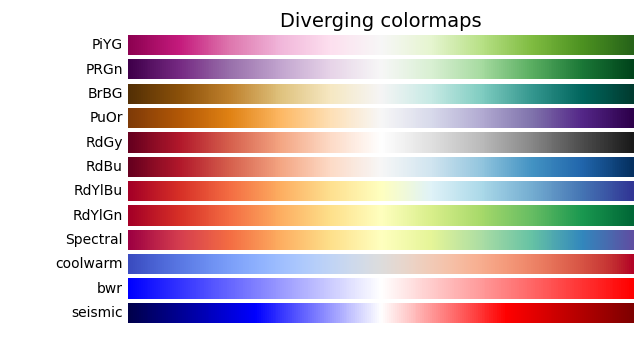
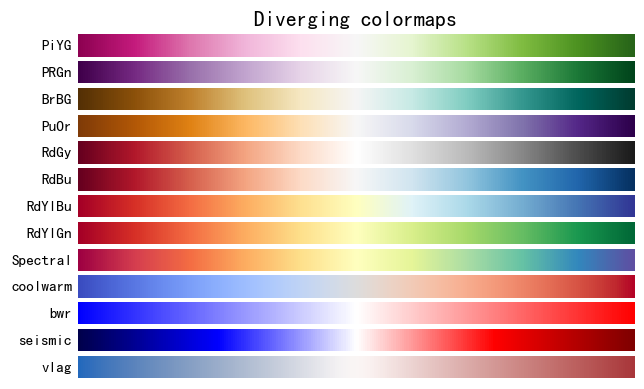
update

diff --git a/machine_learning/聚类/层次聚类.md b/machine_learning/聚类/层次聚类.md
@@ -1,0 +1,117 @@
+# 层次聚类
+
+一开始看到了seaborn的clustermap相关性矩阵。
+
+了解到，这个绘图首先对各个指标进行层次聚类，再绘制相关性矩阵图。
+
+内部层次聚类的流程：
+
+指标归一化→计算样本之间距离→找出距离最小的两类聚在一起迭代直到最后只剩下一个大类。
+
+## 基本用法
+
+```python
+from scipy.cluster import hierarchy
+from matplotlib import pyplot as plt
+x = [[i] for i in [2, 8, 0, 4, 1, 9, 9, 0]]
+# 层次聚类
+linkage = hierarchy.linkage(X, method='single')
+# 绘制层次聚类图像
+hierarchy.dendrogram(linkage)
+plt.show()
+```
+
+其中x是一个个数据点，这里的例子是一维数据
+
+linkage的结果详解：
+
+```python
+print(linkage)
+```
+
+```
+[[ 2.  7.  0.  2.]
+ [ 5.  6.  0.  2.]
+ [ 0.  4.  1.  2.]
+ [ 8. 10.  1.  4.]
+ [ 1.  9.  1.  3.]
+ [ 3. 11.  2.  5.]
+ [12. 13.  4.  8.]]
+```
+
+每一行每个数据分别表示：组索引1，组索引2，距离，组内元素数
+
+初始情况下，x有8个元素，对应组索引号0~7。此时每组只有一个元素。
+
+开始第一次聚类后发现第2组和第7组的距离为0，是当前最接近的组，将它们两归为一组。这组有2个元素，它们的**组索引号就为8**
+
+因此就得到了下面这行
+
+```
+[2, 7, 0, 2]  # 组索引号8
+```
+
+## sns.clustermap 获取linkage
+
+通过以下代码获取seaborn绘制的分层聚类相关性矩阵图的层次聚类结果
+
+```python
+import pandas as pd
+import numpy as np
+import seaborn as sns
+
+corr = df.corr()
+
+size = len(corr) * 0.5
+g = sns.clustermap(corr, center=0, cmap="vlag",
+                   # row_colors=network_colors, 
+                   # col_colors=network_colors,
+                   dendrogram_ratio=(.1, .2),
+                   cbar_pos=(.02, .32, .03, .2),
+                   linewidths=.75, figsize=(size, size+1), 
+                   annot=True, fmt='.2f')
+
+g.ax_row_dendrogram.remove()
+
+# 获取linkage，格式同基本用法里举的例子
+linkage = g.dendrogram_col.linkage
+```
+
+
+
+创建一个二叉树，方便随时查看各个分组有哪些元素
+
+```python
+class Node:
+    def __init__(self, idx, column=None):
+        self.idx = idx
+        self.left = None
+        self.right = None
+        self.column = column  # 只有叶子结点column不为None
+
+
+def preorder_traversal(node, result=[]):
+    if node is None:
+        return result
+    if node.column:
+        result.append(node.column)
+    preorder_traversal(node.left, result)
+    preorder_traversal(node.right, result)
+    return result
+
+
+# 创建树，nodes[-1] 就是树的根节点
+nodes = [Node(i, column) for i, column in enumerate(corr.columns)]
+for left_idx, right_idx, _, _ in g.dendrogram_col.linkage:
+    node = Node(len(nodes))
+    node.left = nodes[int(left_idx)]
+    node.right = nodes[int(right_idx)]
+    nodes.append(node)
+    
+ preorder_traversal(nodes[-1], result=[])
+```
+
+
+
+
+

diff --git a/数据结构与算法/二分查找模板.md b/数据结构与算法/二分查找模板.md
@@ -68,16 +68,87 @@ def bisect_left(a, x, lo=0, hi=None):
     return lo
 ```
 
-
-
-相同点：
-
-- 初始状态下lo和hi的定义：`lo, hi = 0, len(a)`
-- 循环条件 ：`while lo < hi`
-- mid的计算方式：`mid=(lo+hi) // 2`
-
 不同点：
 
 - 判断条件（结合left和right的定义去记忆）nums[mid] 在哪边。
   - `if x < a[mid]: hi = mid` right
   - `if a[mid] < x: lo = mid + 1` left
+
+
+
+# 二分法
+
+```python
+def binary_select_right(nums, x, left=0, right=None):
+    if right is None:
+        right = len(nums)
+
+    while left < right:
+        mid = (left + right) // 2
+        if x < nums[mid]: 
+            right = mid
+        else: 
+            left = mid+1
+    return left
+```
+
+## mid 的计算方式
+
+mid的计算方式：(left + right) // 2。当两数相邻时，算出的mid等于left
+
+例：left = 7，right=8。 mid = (7 + 8) // 2 = 15 // 2 = 7
+
+因此在二分时，如果x > nums[mid]，更新的left = mid + 1。
+
+否则可能出现无限循环的情况。
+
+## 二分的核心
+
+上面这个函数的含义：
+
+nums是一个递增数组，要将x插入nums，且nums保持递增，若nums中包含与x相同的元素，则**将x插入到其相同元素的最右边**，返回x插入位置的索引。
+
+其中的核心语句是：
+
+```
+if x < nums[mid]:
+```
+
+如果将上面这句改成
+
+```
+if x <= nums[mid]:
+```
+
+函数含义就变为：若nums中包含与x相同的元素，则将x插入到其相同元素的**最左边**
+
+
+
+小于与小于等于的差异
+
+```
+x = 2
+
+  1   2   2   2   3
+  ^       ^       ^
+left     mid    right
+```
+
+（1）如果按照 x < nums[mid]，条件不满足，更新 left = mid + 1
+
+> 飞机分头等舱和经济舱，优先级分别为1和2。理所应当，优先级越小的越早登机。拿着头等舱机票的乘客在排队时可以一下子走到经济舱乘客的前面。
+>
+> 这时候张三购买了头等舱机票来排队了，他可以排在经济舱乘客的前面，但是按照排队先来后到的原则，他得排在头等舱乘客的最后面
+>
+> 虽然都是头等舱，但是还是**不一样**的（小于号，没有等于号）
+
+（2）如果按照 x <= nums[mid]，条件满足，更新 right = mid
+
+> 但是张三不服气，争辩到，我们都**一样**是头等舱，排哪里都无所谓啦。因此我要排到最前面。（小于等于）
+
+
+
+
+
+
+

diff --git a/python绘图库/matplotlib/color速查.md b/python绘图库/matplotlib/color速查.md
@@ -27,12 +27,10 @@
 https://matplotlib.org/gallery/color/colormap_reference.html#sphx-glr-gallery-color-colormap-reference-py
 
 ```python
-import numpy as np
-import matplotlib.pyplot as plt
-
 
 cmaps = [('Perceptually Uniform Sequential', [
-            'viridis', 'plasma', 'inferno', 'magma', 'cividis']),
+            'viridis', 'plasma', 'inferno', 'magma', 'cividis', 'crest',
+            'flare', 'icefire', 'mako', 'rocket']),
          ('Sequential', [
             'Greys', 'Purples', 'Blues', 'Greens', 'Oranges', 'Reds',
             'YlOrBr', 'YlOrRd', 'OrRd', 'PuRd', 'RdPu', 'BuPu',
@@ -42,8 +40,8 @@ cmaps = [('Perceptually Uniform Sequential', [
             'spring', 'summer', 'autumn', 'winter', 'cool', 'Wistia',
             'hot', 'afmhot', 'gist_heat', 'copper']),
          ('Diverging', [
-            'PiYG', 'PRGn', 'BrBG', 'PuOr', 'RdGy', 'RdBu',
-            'RdYlBu', 'RdYlGn', 'Spectral', 'coolwarm', 'bwr', 'seismic']),
+            'PiYG', 'PRGn', 'BrBG', 'PuOr', 'RdGy', 'RdBu', 'RdYlBu', 
+            'RdYlGn', 'Spectral', 'coolwarm', 'bwr', 'seismic', 'vlag']),
          ('Cyclic', ['twilight', 'twilight_shifted', 'hsv']),
          ('Qualitative', [
             'Pastel1', 'Pastel2', 'Paired', 'Accent',
@@ -55,7 +53,6 @@ cmaps = [('Perceptually Uniform Sequential', [
             'gist_rainbow', 'rainbow', 'jet', 'turbo', 'nipy_spectral',
             'gist_ncar'])]
 
-
 gradient = np.linspace(0, 1, 256)
 gradient = np.vstack((gradient, gradient))
 
@@ -64,7 +61,7 @@ def plot_color_gradients(cmap_category, cmap_list):
     # Create figure and adjust figure height to number of colormaps
     nrows = len(cmap_list)
     figh = 0.35 + 0.15 + (nrows + (nrows-1)*0.1)*0.22
-    fig, axs = plt.subplots(nrows=nrows, figsize=(6.4, figh))
+    fig, axs = plt.subplots(nrows=nrows, figsize=(6.4, figh), dpi=110)
     fig.subplots_adjust(top=1-.35/figh, bottom=.15/figh, left=0.2, right=0.99)
 
     axs[0].set_title(cmap_category + ' colormaps', fontsize=14)

diff --git a/python绘图库/seaborn/如何获取kdeplot的密度曲线数值.md b/python绘图库/seaborn/如何获取kdeplot的密度曲线数值.md
@@ -1,0 +1,46 @@
+如图，要想获取seaborn绘制的密度曲线（下图的蓝线）的具体数值
+
+```python
+import numpy as np
+import seaborn as sns
+
+x = np.random.randn(100)
+sns.kdeplot(x)
+```
+
+![获取kde曲线1](img/获取kde曲线1.png)
+
+首先要接收kdeplot()的返回值，返回的是一个[`matplotlib.axes.Axes`](https://matplotlib.org/stable/api/axes_api.html#matplotlib.axes.Axes)对象
+
+```python
+ax = sns.kdeplot(x)
+```
+
+然后调用`get_children()`方法，返回一个列表，里面是这张图里的各个部件
+
+```python
+ax.get_children()
+```
+
+```
+[<matplotlib.lines.Line2D at 0x2ac91765dc8>,
+ <matplotlib.spines.Spine at 0x2ac91741108>,
+ <matplotlib.spines.Spine at 0x2ac91741608>,
+ <matplotlib.spines.Spine at 0x2ac917418c8>,
+ <matplotlib.spines.Spine at 0x2ac91970948>,
+ <matplotlib.axis.XAxis at 0x2ac91500f88>,
+ <matplotlib.axis.YAxis at 0x2ac917419c8>,
+ Text(0.5, 1.0, ''),
+ Text(0.0, 1.0, ''),
+ Text(1.0, 1.0, ''),
+ <matplotlib.patches.Rectangle at 0x2ac91737308>]
+```
+
+获取其中第一个对象[`matplotlib.lines.Line2D`](https://matplotlib.org/stable/api/_as_gen/matplotlib.lines.Line2D.html?highlight=line2d#matplotlib.lines.Line2D)，并调用其`get_ydata()`方法就获取了密度曲线的具体数值了
+
+```python
+line = ax.get_children()[0]
+y = line.get_ydata()
+```
+
+PS：此外也可以调用`get_xdata()`得到的值就是一开始使用的`x`

diff --git a/Markdown.md b/Markdown.md
@@ -59,7 +59,21 @@ ctrl+左键点击链接
 1. 定义一个锚(id)：`<span id="jump">跳转到的地方</span>`
 2. 使用markdown语法：`[点击跳转](#jump)`
 
-### 公式
+
+
+### 引用
+
+`ctrl + shift + Q`
+
+`>`
+
+> 怎么引用？
+
+
+
+
+
+## 常用latex
 
 [官方文档](https://support.typora.io/Math/)
 
@@ -76,18 +90,4 @@ ctrl+左键点击链接
 | $\bar{a}$ | `\bar{a}` | $\mathcal{L}$ | `$\mathbb{L}$`  |      |      |
 | $\hat{a}$ | `\hat{a}` | $\mathscr{L}$ | `$\mathscr{L}$` |      |      |
 |           |           | $\mathbb{L}$  | `$\mathbb{L}$`  |      |      |
-
-
-
-
-
-
-
-### 引用
-
-`ctrl + shift + Q`
-
-`>`
-
-> 怎么引用？
 

diff --git a/python数据分析库/numpy/其他.md b/python数据分析库/numpy/其他.md
@@ -1,0 +1,7 @@
+```python
+neg, pos = np.bincount(array)
+
+np.clip(a,a_min,a_max) # 小于a_min的数据变成a_min,大于a_max的数据变成a_max
+
+```
+
